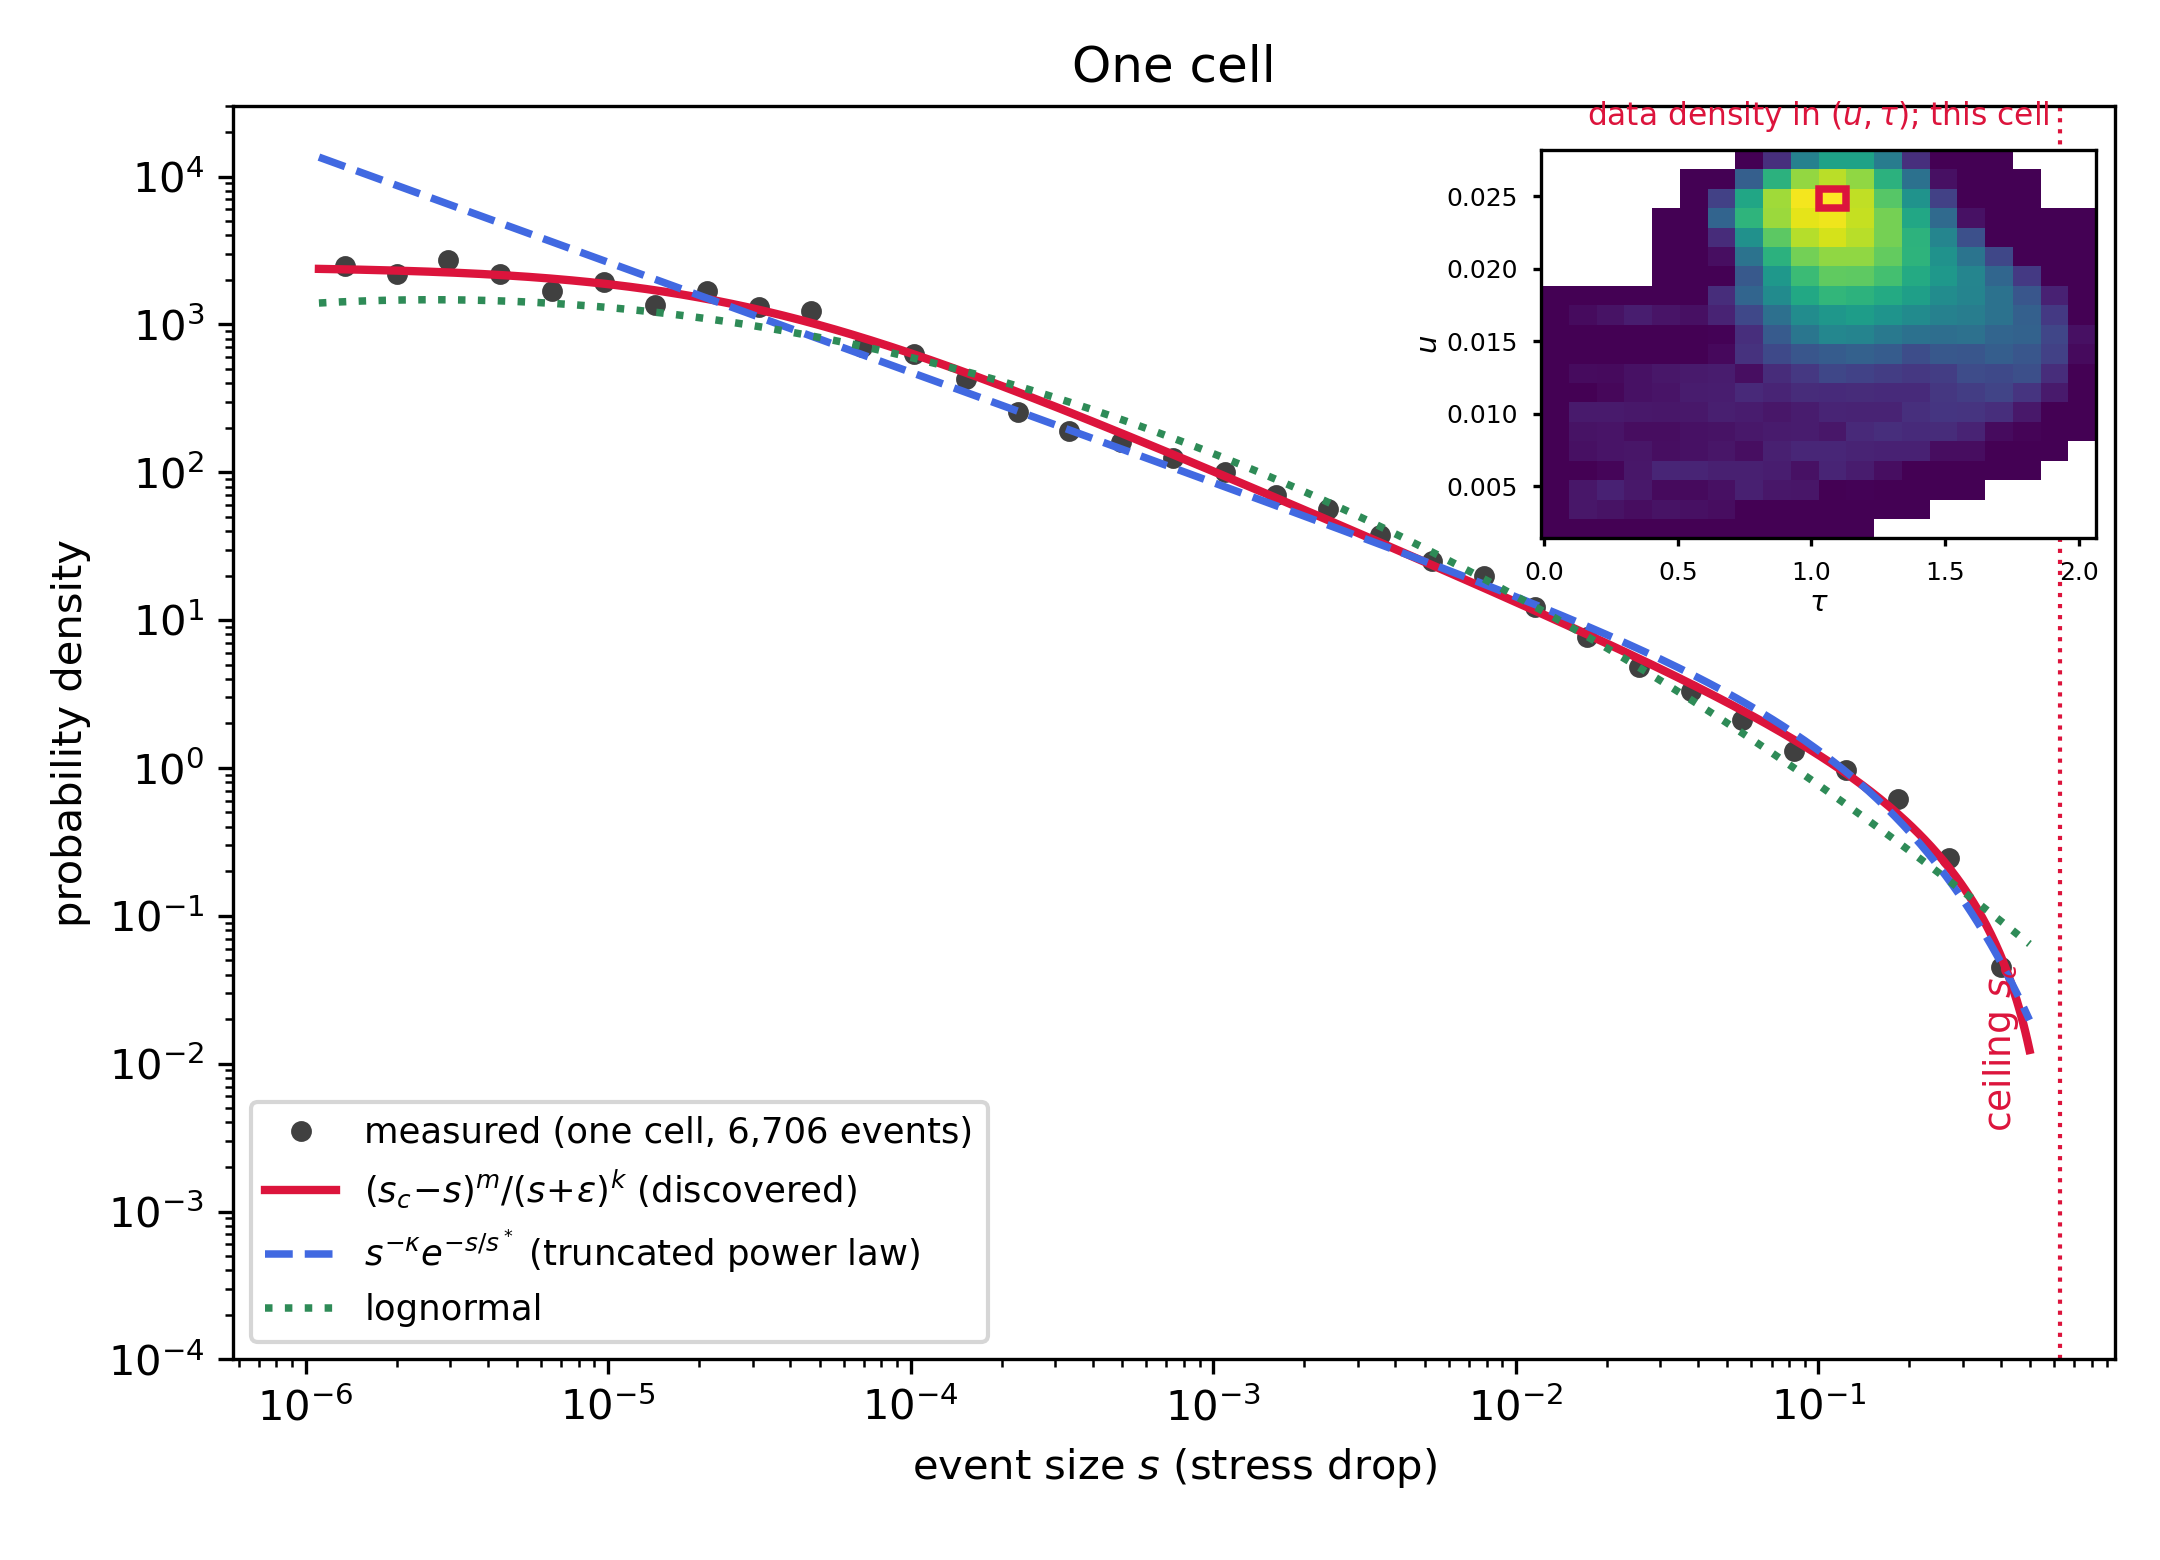
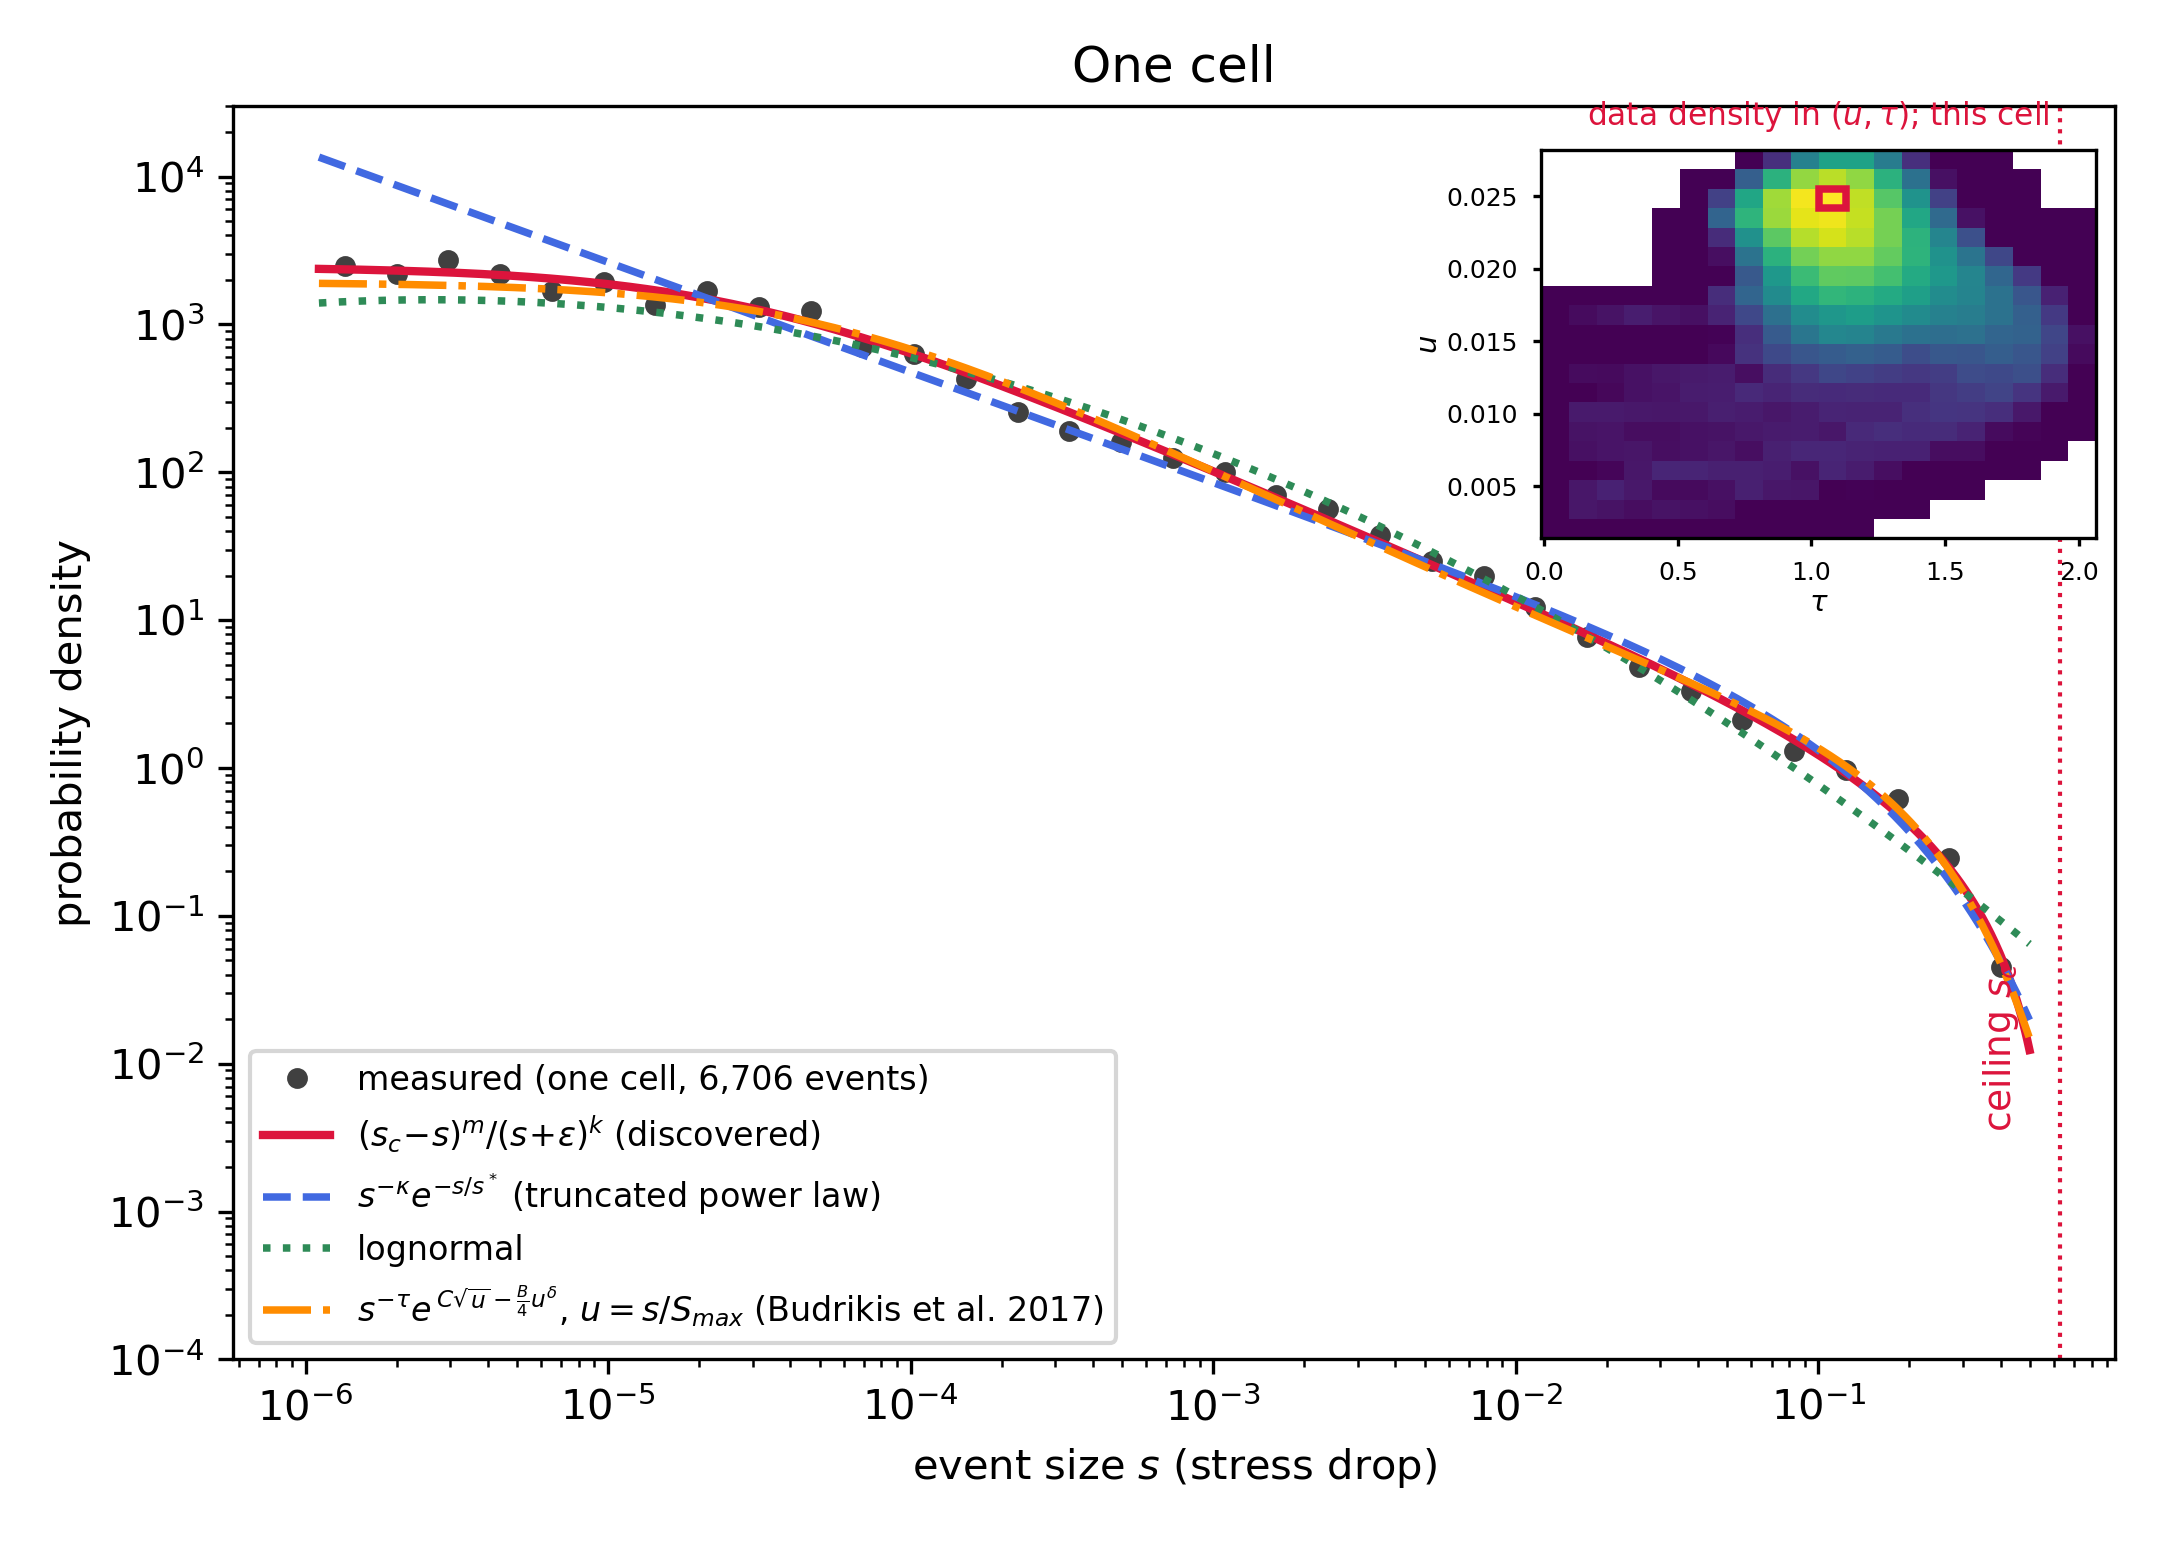
Figure 1: add the Budrikis et al. (2017) form (full range, with eps rounding)

diff --git a/pipeline/make_figs_single.py b/pipeline/make_figs_single.py
@@ -78,13 +78,18 @@ rl = dist.fit('lognormal', s, 1e-6)
 lnl = -np.log(g) - (np.log(g) - rl['theta'][0]) ** 2 / (2 * np.exp(2 * rl['theta'][1]))
 wl = np.exp(lnl - lnl.max())
 A.plot(g, wl / np.trapezoid(wl, g), ':', color='seagreen', lw=1.8, label='lognormal')
+rb = dist.fit('ldw_eps', s, 1e-6)      # Budrikis et al. 2017 eq. 1, with the same eps rounding
+lnb = dist._lnf('ldw_eps', g, rb['theta'], hi)
+wb = np.exp(lnb - lnb.max())
+A.plot(g, wb / np.trapezoid(wb, g), '-.', color='darkorange', lw=1.8,
+       label=r'$s^{-\tau}e^{\,C\sqrt{u}-\frac{B}{4}u^{\delta}}$, $u=s/S_{max}$ (Budrikis et al. 2017)')
 A.axvline(c, color='crimson', ls=':', lw=1)
 A.annotate('ceiling $s_c$', (c, 2e-2), rotation=90, fontsize=9, color='crimson',
            xytext=(c * 0.55, 4e-3))
 A.set_xlabel('event size $s$ (stress drop)')
 A.set_ylabel('probability density')
 A.set_ylim(1e-4, 3e4)
-A.legend(fontsize=8.5, loc='lower left')
+A.legend(fontsize=8, loc='lower left')
 A.set_title('One cell')
 # inset: where this cell sits in the data's probability density over (u, tau)
 ins = A.inset_axes([0.695, 0.655, 0.295, 0.31])

diff --git a/README.md b/README.md
@@ -148,8 +148,10 @@ well-populated cell of the state grid, with its full range of event sizes
 dataset's probability density over the (u,τ) plane, at the well-sampled
 high-u ridge. Black points: the measured density. Red: the discovered ceiling
 law. Blue dashed: the best truncated power law (TPL). Green dotted: the best
-lognormal. All three are maximum-likelihood fits of proper densities. The
-ceiling law is the only one that captures both ends: the flattening below
+lognormal. Orange dash-dot: the Budrikis et al. (2017) mean-field-corrected
+form, with the same ε rounding so it can be fitted on the full range. All
+four are maximum-likelihood fits of proper densities. The ceiling law is the
+only one that captures both ends: the flattening below
 s ≈ 3×10⁻⁵ (the ε rounding) and the abrupt termination at the dotted vertical
 line (the ceiling s_c), where the TPL's exponential tail decays too softly and
 overshoots. On the full range the ceiling law beats the TPL by ΔAIC ≈ 200 to
@@ -172,7 +174,9 @@ placed well inside the data rather than at their edge. The mismatch is in
 the small-size curvature: for τ below 1.5 the exp(C√u) factor bends the
 density upward, which the events do not do (`pipeline/ldw_compare.py`,
 figures/fig23_ldw.png). Adding the ε rounding and fitting the full range
-leaves it +80 to +106 behind the ceiling law.
+leaves it +80 to +106 behind the ceiling law; on the log-log axes of Figure 1
+that version is nearly indistinguishable from the ceiling law by eye, which
+is a reminder that the per-event likelihood, not the plot, is what decides.
 
 ![The collapse](figures/fig02_collapse.png)
 
